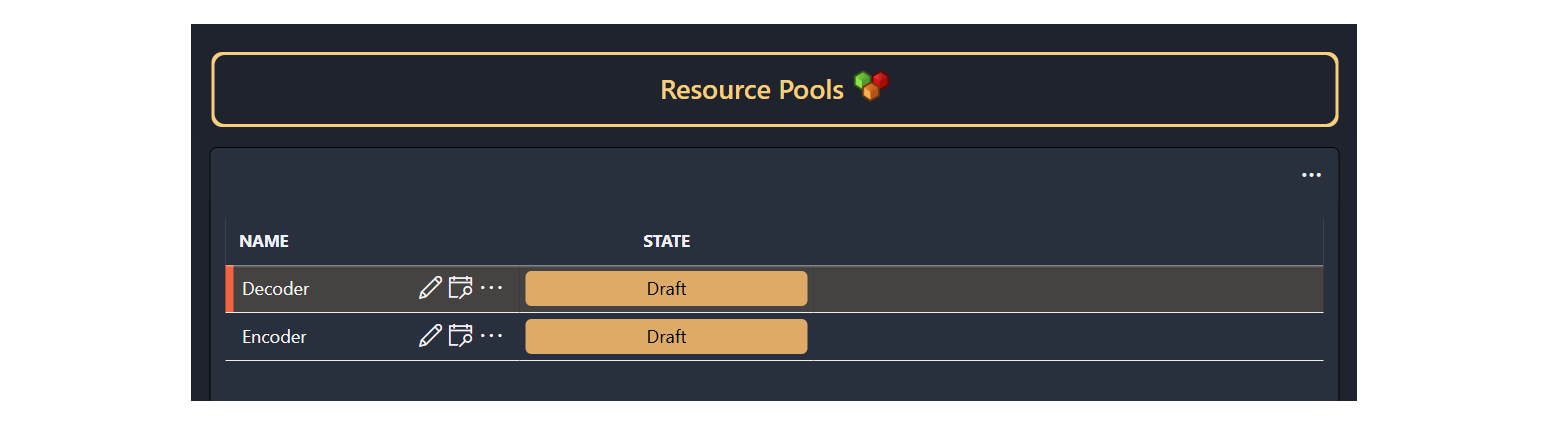
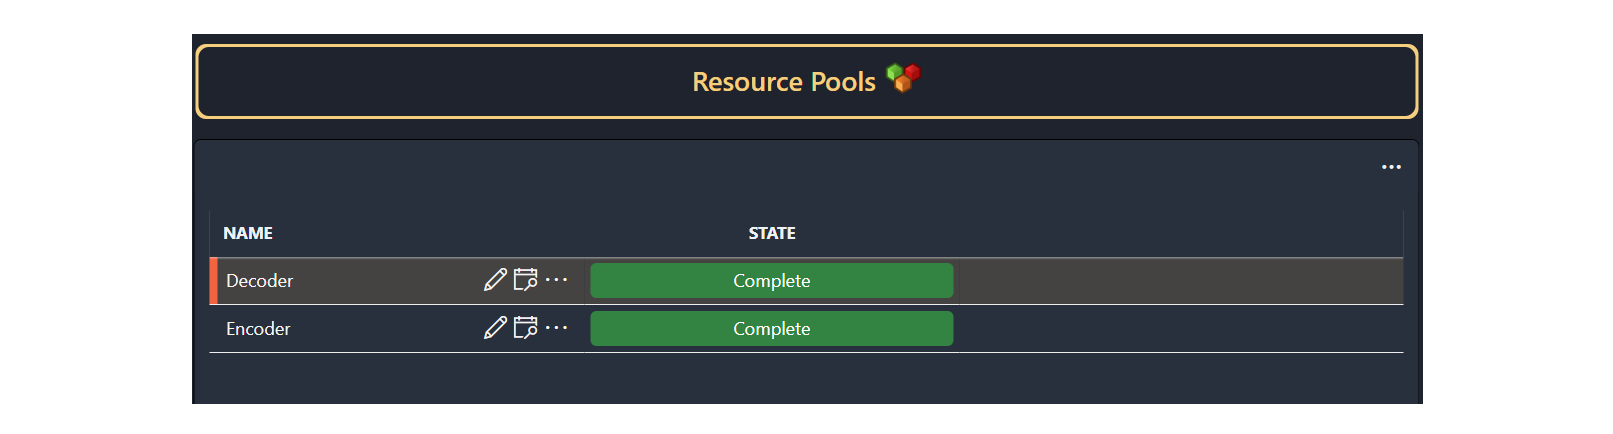
Creating resources is now a tutorial!

Changed region(s): [[0.0931, 0.0304, 0.9004, 0.9438], [0.4657, 0.5176, 0.4968, 0.548]]

diff --git a/solutions/standard_solutions/MediaOps/Tutorial_Resource_Studio.md b/solutions/standard_solutions/MediaOps/Tutorial_Resource_Studio.md
@@ -4,53 +4,112 @@ uid: Tutorial_Resource_Studio
 
 # Getting started with the Resource Studio
 
-> [!NOTE]
-> The content and screenshots for this tutorial have been created using DataMiner version 10.4.8 and Ping Monitoring version 1.0.1-CU12.
+In this tutorial, you will learn how to create and configure resource pools and resources using the Resource Studio.
+
+Expected duration: 15 minutes
+
+> [!NOTE]  
+> The content and screenshots for this tutorial have been created using DataMiner version 10.5.5 and MediaOps version 1.2.5-CU0.
+
+> [!TIP]  
+> See also: [Resource Studio documentation](xref:MO_Resource_Studio)
 
 ## Prerequisites
 
+- A DataMiner System using DataMiner 10.5.5 or higher.
+- Access to the **Resource Studio** application.
+
 ## Overview
 
-Say we have a set of devices that can convert signals between [SDI](https://en.wikipedia.org/wiki/Serial_digital_interface) and [IP](https://en.wikipedia.org/wiki/Internet_Protocol), SDI-to-IP being an **encoder** and IP-to-SDI converter being a **decoder**. To represent these 2 types of devices, we can create 2 matching resource pools. First open the **New** resource pool popup:
+- [Step 1: Create resource pools](#step-1-create-resource-pools)
+- [Step 2: Create resources](#step-2-create-resources)
+- [Step 3: Mark resources complete](#step-3-mark-resources-complete)
+- [Step 4: Assign resources to pools](#step-4-assign-resources-to-pools)
 
-![New Resource Pool](~/solutions/images/Resource_Studio_New_Resource_Pool.png)
+## Step 1: Create resource pools
 
-Next, fill in the form with appropriate names (**Encoder** and **Decoder**) for the resource pools. For now you don't have to change anything else in this form:
+Assume that you have a set of devices you would like to add to the Resource Studio app. The devices convert signals between [SDI](https://en.wikipedia.org/wiki/Serial_digital_interface) and [IP](https://en.wikipedia.org/wiki/Internet_Protocol). SDI-to-IP devices act as **encoders**, and IP-to-SDI devices as **decoders**.
 
-![New Resource Pool Form](~/solutions/images/Resource_Studio_New_Resource_Pool_Form.png)
+To represent these device types in the Resource Studio app, you can create two matching resource pools:
 
-After you **Save** both resource pools, you can see them listed in the **Resource Pools** table:
+1. Open the `+ New` Resource Pool window.
 
-![New Resource Pool Created](~/solutions/images/Resource_Studio_New_Resource_Pools_Created.png)
+   ![New Resource Pool](~/solutions/images/Resource_Studio_New_Resource_Pool.png)
 
-Now that the resource pools are created, we can proceed with creating the resources and assigning them to the resource pools. The procedure is similar to creating resource pools, only this time we navigate to the **Resources** page.
+1. Fill in the form with the names "Encoder" and "Decoder" for the respective pools.
 
-![New Resource](~/solutions/images/Resource_Studio_New_Resource.png)
+   ![New Resource Pool Form](~/solutions/images/Resource_Studio_New_Resource_Pool_Form.png)
 
-Name the resources "Video Solutions 001" and "NewTek 001", set the **Type** to `Unmanaged` and **Save** them. Also, let's assume that the first resource is just an **Encoder**, while the second one can be used either as an **Encoder** or **Decoder**, but it can act as only one of those at a time.
+   > [!TIP]  
+   > You don’t need to modify other fields in this form for this tutorial.
 
-![New Resource Form](~/solutions/images/Resource_Studio_New_Resource_Form.png)
+1. Click **Save as Completed**.
 
-To make both resources available for assigninment to resource pools, open up their respective **Edit** panels and **Mark complete** both of the resources.
+   > [!NOTE]
+   > `Complete` is one of the states a resource pool can be in. If you choose to save it in the `Draft` state (on the bottom left) instead, you will be able to finish the tutorial, but the resource pools won't be available for use in the other apps like [Scheduling](xref:MO_Scheduling) and [Resource Studio](xref:MO_Resource_Studio).
 
-![Mark Complete](~/solutions/images/Resource_Studio_Resource_Mark_Complete.png)
+1. Confirm both resource pools are listed in the **Resource Pools** table.
 
-Now that both the resources are created and available for usage, we can proceed with assigning them to the pools.
+   ![New Resource Pool Created](~/solutions/images/Resource_Studio_New_Resource_Pools_Created.png)
 
-![Assign Resources](~/solutions/images/Resource_Studio_Assign_Resources.png)
+## Step 2: Create resources
 
-In the assign resources panel, at the top of the screen you can see which resource pool you're assigning to. Below you can find all the resources, which you can also filter by their name. Once you find the resource you want to add to the pool, **select** it and click the **ADD** button on the top right.
+Now that the resource pools are set up, you can proceed to create resources and assign them.
 
-![Assign Resources Panel](~/solutions/images/Resource_Studio_Assign_Resources_Panel.png)
+1. Go to the **Resources** page.
 
-> [!TIP]
-> If you can't find your resource in the above panel, double check if it has been "marked complete".
+   ![New Resource](~/solutions/images/Resource_Studio_New_Resource.png)
 
-You should add the "Video Solutions 001" and "NewTek 001" resources to the "Encoders" resource pool. If all went well, now you should see your resources have moved to the column on the right, which means they are  part of the resource pool. After that is done, open up the "Decoders" resource pool and add only "NewTek 001" resource to it. Now you have your resources and resource pools neatly organized and ready for use in other apps such as [Scheduling](xref:MO_Scheduling) and [Resource Studio](xref:MO_Resource_Studio).
+1. Create two resources:
+   - *Video Solutions 001*
+   - *NewTek 001*
 
-One final step is to navigate to the **Edit** panel of both resource pools and **Mark complete** each of them. These resources and resource pools now can be assigned to jobs, as you will see in other examples in the the documentation.
+1. For both, set the **Type** to `Unmanaged` and click **Save**.
+
+   ![New Resource Form](~/solutions/images/Resource_Studio_New_Resource_Form.png)
+
+> [!NOTE]  
+> In this example, *Video Solutions 001* is an **Encoder** only, while *NewTek 001* can act as either an **Encoder** or **Decoder**, but only one at a time.
+
+## Step 3: Mark resources complete
+
+Before resources can be assigned to pools, they must be marked complete.
+
+1. Open the **Edit** panel for each resource.
+
+1. Click **Mark complete**.
+
+   ![Mark Complete](~/solutions/images/Resource_Studio_Resource_Mark_Complete.png)
+
+## Step 4: Assign resources to pools
+
+1. Go to the **Assign Resources** screen.
+
+   ![Assign Resources](~/solutions/images/Resource_Studio_Assign_Resources.png)
+
+1. At the top, confirm the resource pool you are assigning to.
+
+1. Use the filter box to locate the resource.
+
+1. Select the resource and click `+ ADD`.
+
+   ![Assign Resources Panel](~/solutions/images/Resource_Studio_Assign_Resources_Panel.png)
+
+1. Assign the resources as follows:
+   - Add *Video Solutions 001* and *NewTek 001* to the **Encoders** pool.
+   - Add only *NewTek 001* to the **Decoders** pool.
+
+> [!TIP]  
+> If your resource doesn’t show up, make sure it has been **marked complete**.
+
+You should now see the resources listed in the right-hand column of each pool. This brings us to the end of this tutorial. By now, if all went well, you should have some resources and resource pools ready for use in other applications such as [Scheduling](xref:MO_Scheduling) and [Resource Studio](xref:MO_Resource_Studio).
+
+> [!NOTE]
+> In case your resources or resource pools are in `Draft` state, you can change the state to `Complete` as follows:
+> 1. Open the **Edit** panel of each instance you want to change.
+> 1. Click **Mark complete**.
 
 ![Mark Complete](~/solutions/images/Resource_Studio_Mark_Complete.png)
 
-> [!TIP]
-> You can also **Change icon** of the resource pools and make them convey more visual information when used in other apps.
+> [!TIP]  
+> You can also **Change icon** of the resource pools to add visual context in other applications.
